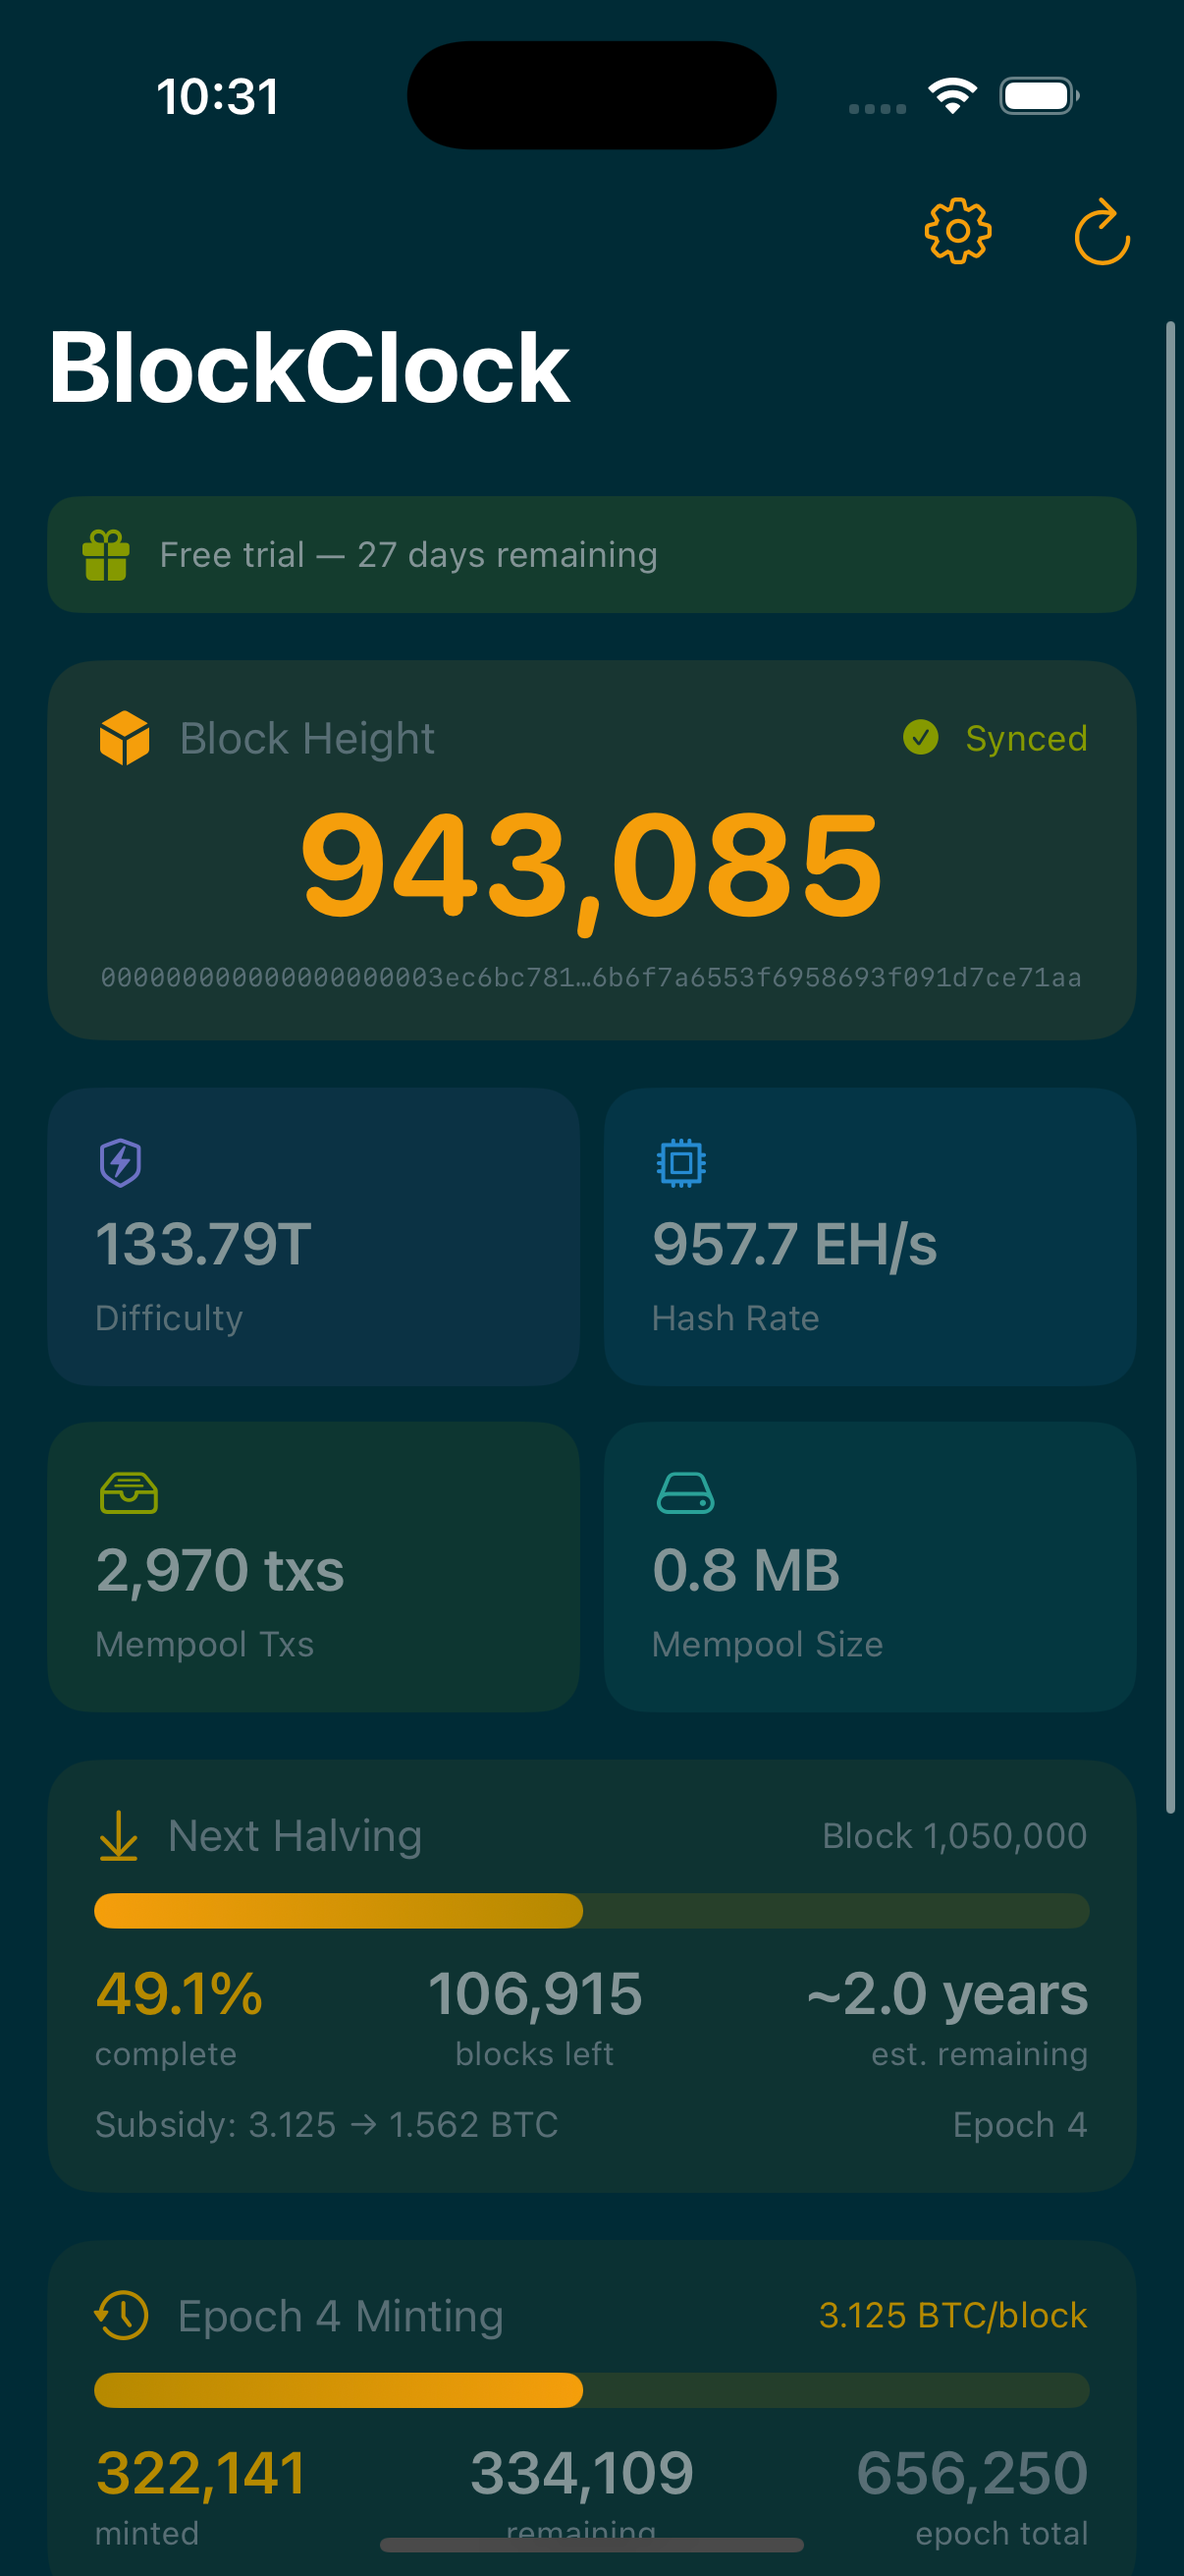
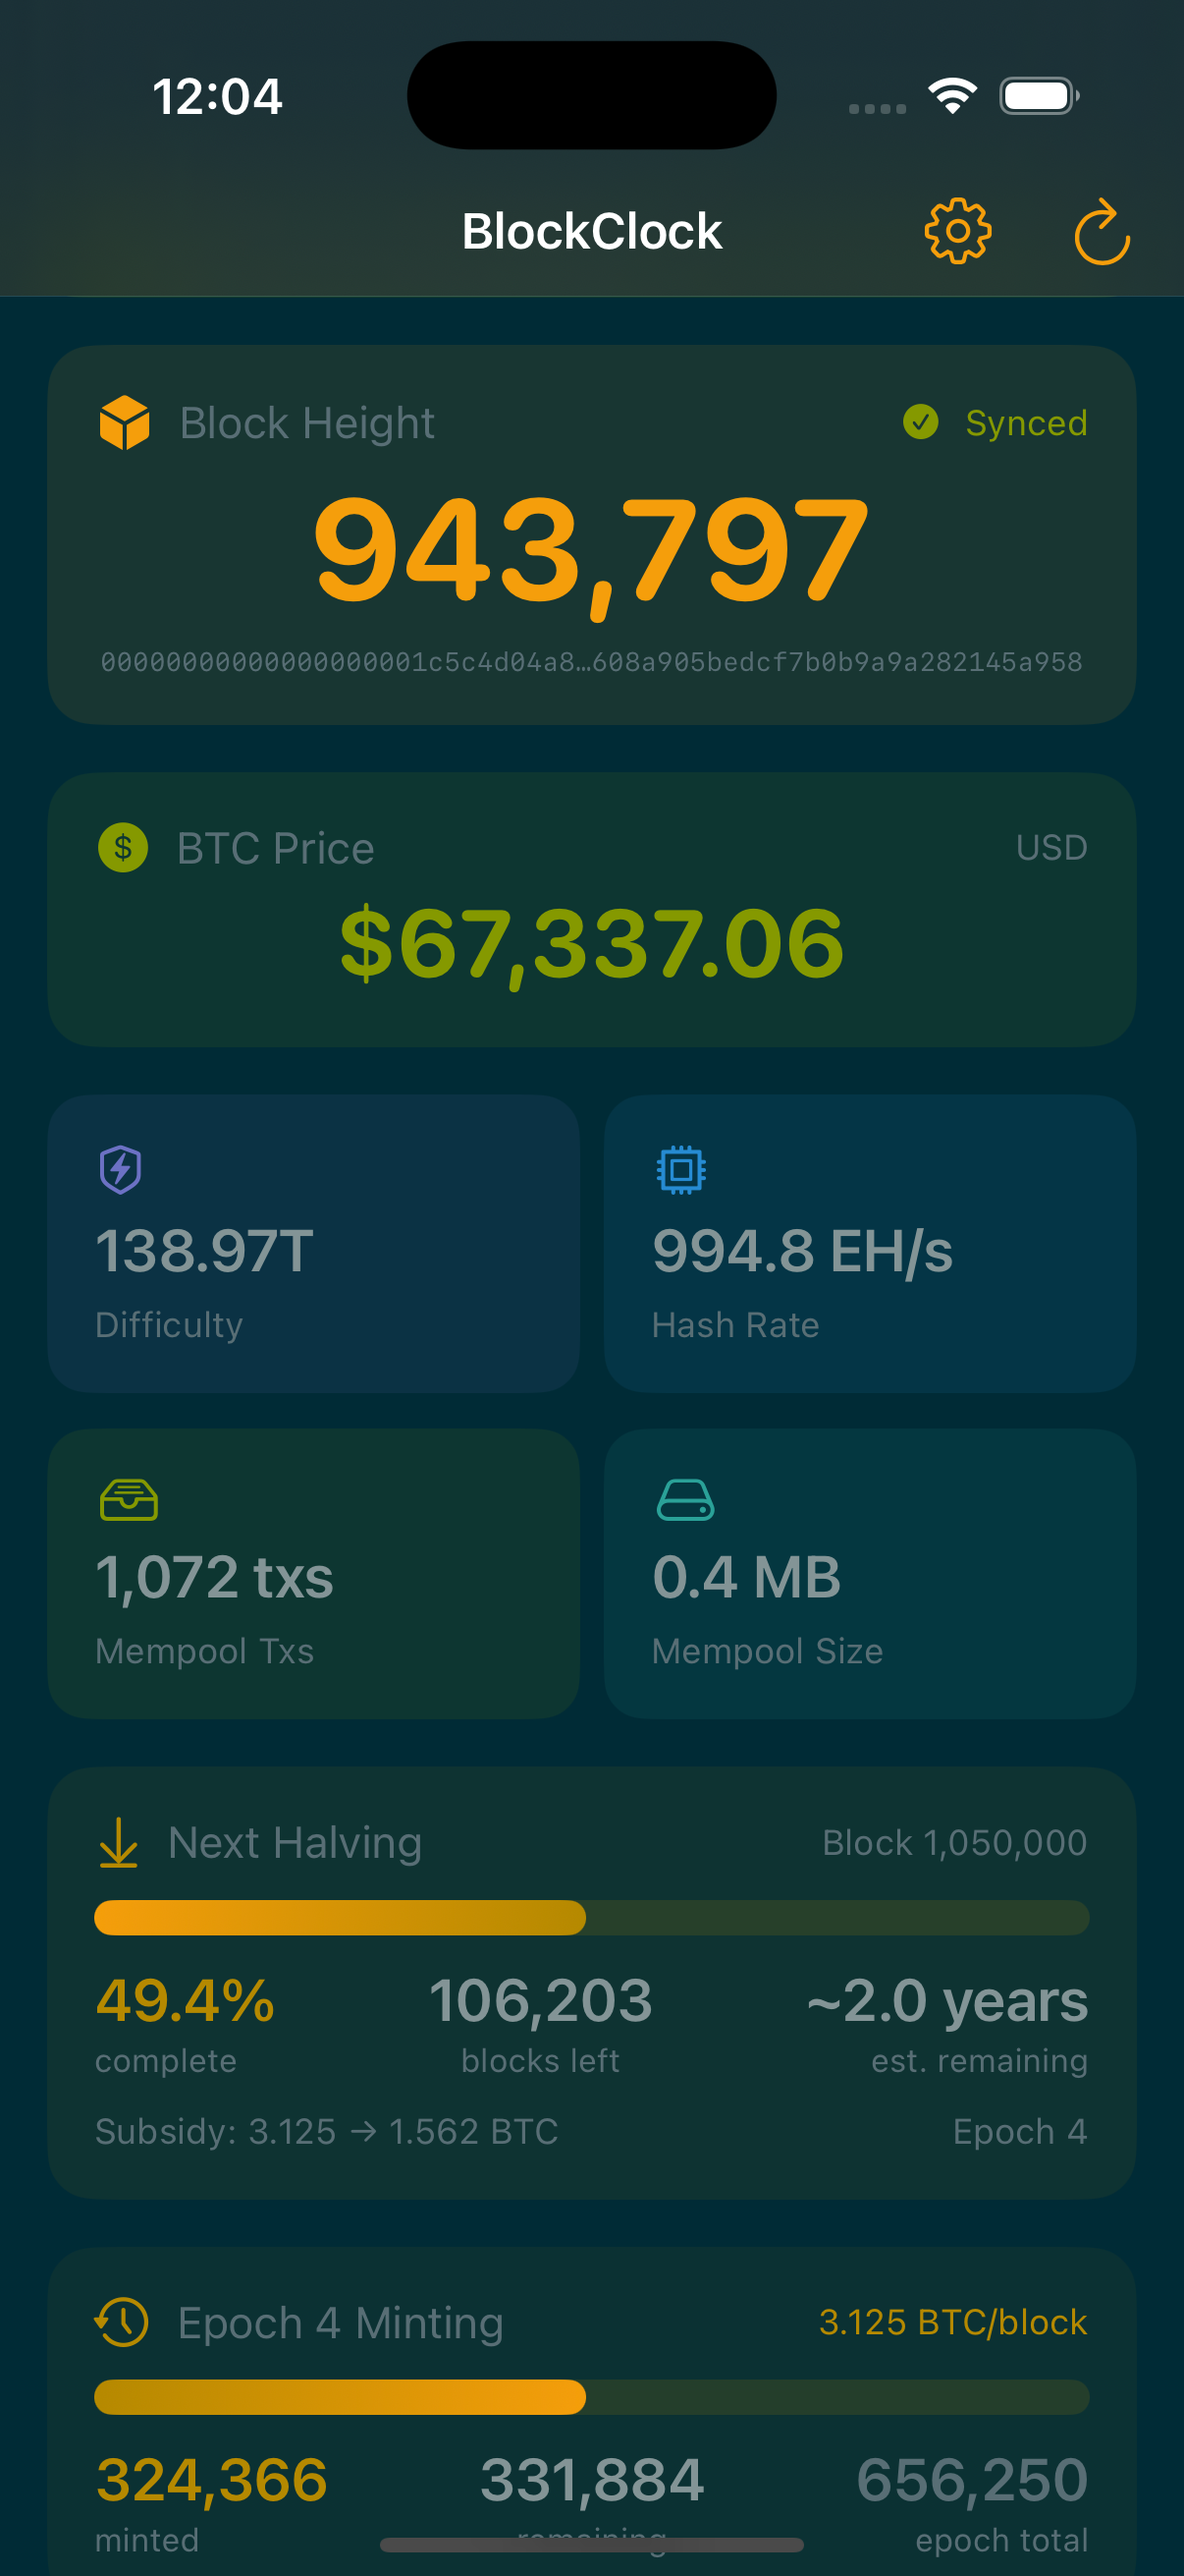
Add Bitcoin price feature blurbs, update widget and watch descriptions

diff --git a/index.html b/index.html
@@ -127,8 +127,8 @@
                         </svg>
                     </div>
                     <h3>Apple Watch (Android Coming Soon)</h3>
-                    <p>Block height, halving countdown, and bitcoin supply counter on your wrist. Four complication
-                        families — circular, rectangular, inline, and corner — show block height, halving progress,
+                    <p>Block height, BTC price, halving countdown, and supply counter on your wrist. Five complication
+                        families — circular, rectangular, inline, and corner — show block height, live price, halving progress,
                         epoch supply, and total supply right on your watch face.</p>
                 </div>
 
@@ -144,8 +144,8 @@
                         </svg>
                     </div>
                     <h3>Home &amp; Lock Screen Widgets</h3>
-                    <p>Glance at the supply counter, halving progress, and block height right from your, home,
-                        lock-screen or watch face.</p>
+                    <p>Glance at BTC price, supply counter, halving progress, and block height right from your home screen,
+                        lock screen, or watch face.</p>
                 </div>
 
                 <!-- Halving -->
@@ -174,6 +174,20 @@
                     <h3>Supply Tracker</h3>
                     <p>Watch the 21 million cap approach in real time. See total BTC issued, remaining supply, epoch
                         minting progress, and subsidy per block.</p>
+                </div>
+
+                <!-- Price -->
+                <div class="feature-card">
+                    <div class="feature-icon">
+                        <svg viewBox="0 0 24 24" fill="none" stroke="currentColor" stroke-width="2"
+                            stroke-linecap="round" stroke-linejoin="round">
+                            <line x1="12" y1="1" x2="12" y2="23" />
+                            <path d="M17 5H9.5a3.5 3.5 0 0 0 0 7h5a3.5 3.5 0 0 1 0 7H6" />
+                            <circle cx="12" cy="12" r="10" />
+                        </svg>
+                    </div>
+                    <h3>Bitcoin Price in 7 Currencies</h3>
+                    <p>Live BTC price on your dashboard, home screen widgets, lock screen, and Apple Watch complications. Choose from USD, EUR, GBP, CAD, AUD, JPY, or CHF — updated every 5 minutes.</p>
                 </div>
             </div>
         </div>
